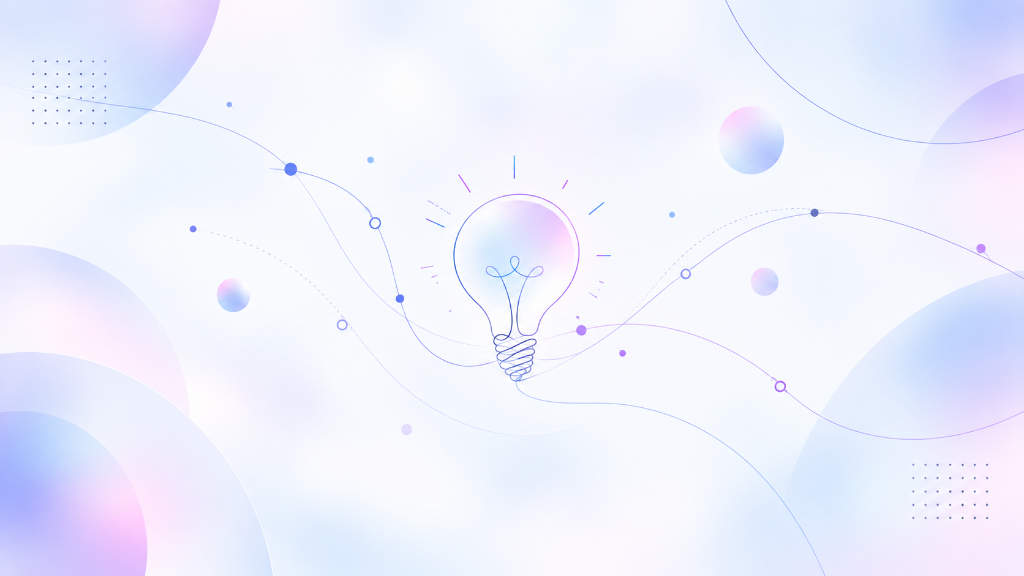
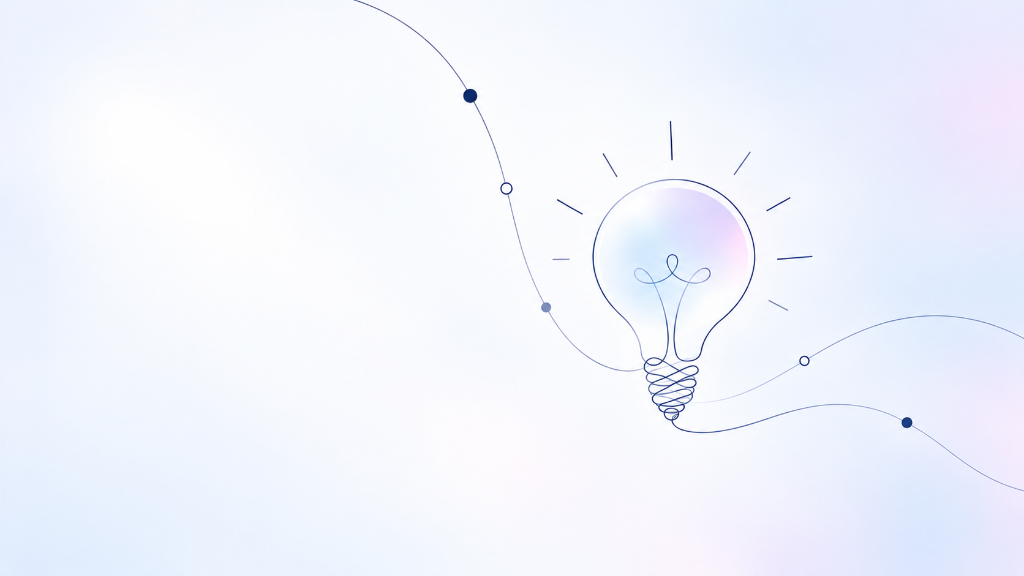
feat: update Ideas to Impact background with refined clean lightbulb illustration

diff --git a/components/sections/IdeasToImpactSection.tsx b/components/sections/IdeasToImpactSection.tsx
@@ -56,10 +56,10 @@ export const IdeasToImpactSection: React.FC = () => {
           fill
           priority
           sizes="100vw"
-          className="object-cover object-center select-none opacity-90"
+          className="object-cover object-center lg:object-right select-none"
         />
         {/* Soft atmospheric gradient for crisp typography contrast */}
-        <div className="absolute inset-0 bg-gradient-to-r from-white/95 via-white/70 to-transparent lg:from-white/60 lg:via-transparent lg:to-transparent" />
+        <div className="absolute inset-0 bg-gradient-to-r from-white/90 via-white/40 to-transparent lg:from-white/40 lg:via-transparent lg:to-transparent" />
       </div>
 
       <Container size="default" className="relative z-10 w-full max-w-[1280px] flex flex-col justify-between h-full space-y-16 sm:space-y-24">
